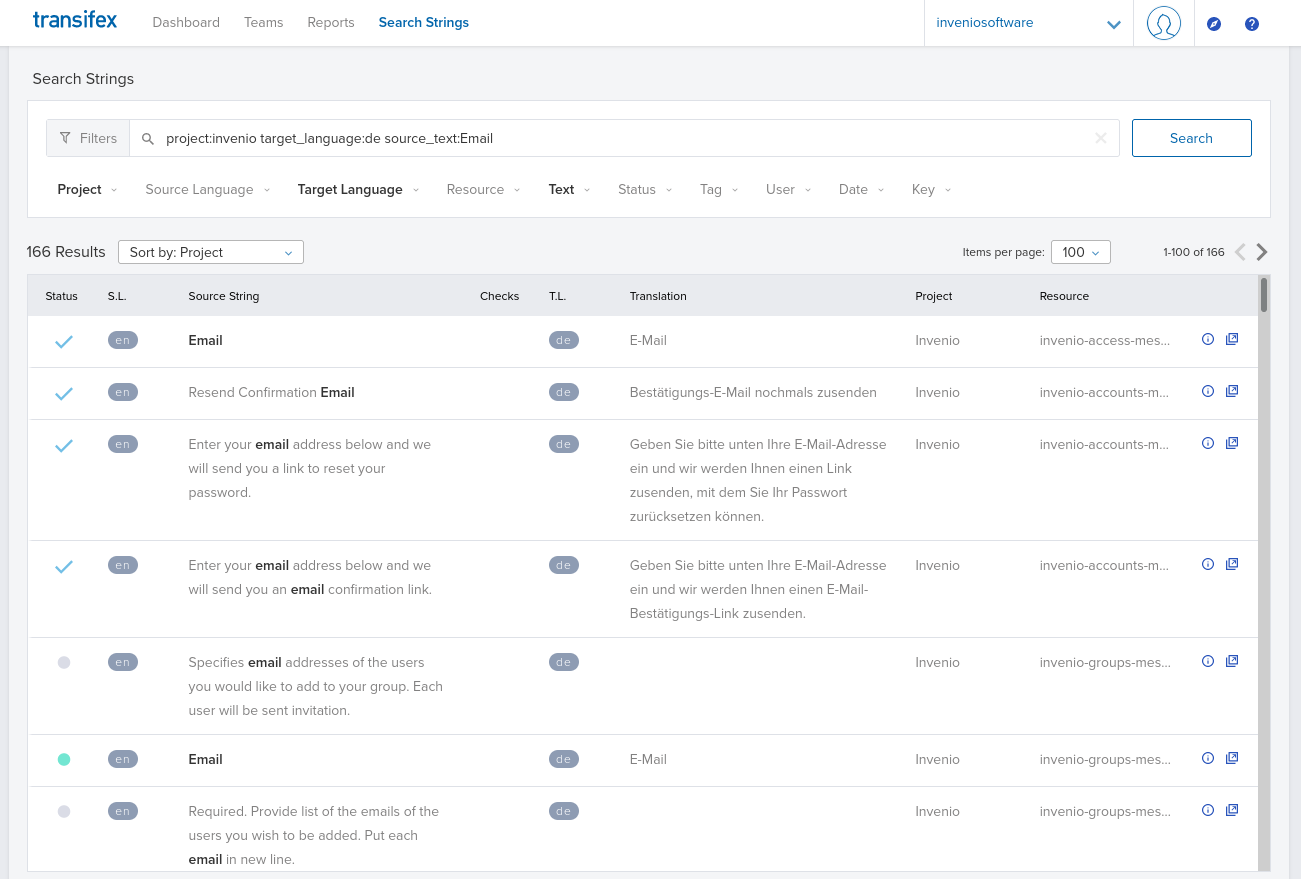
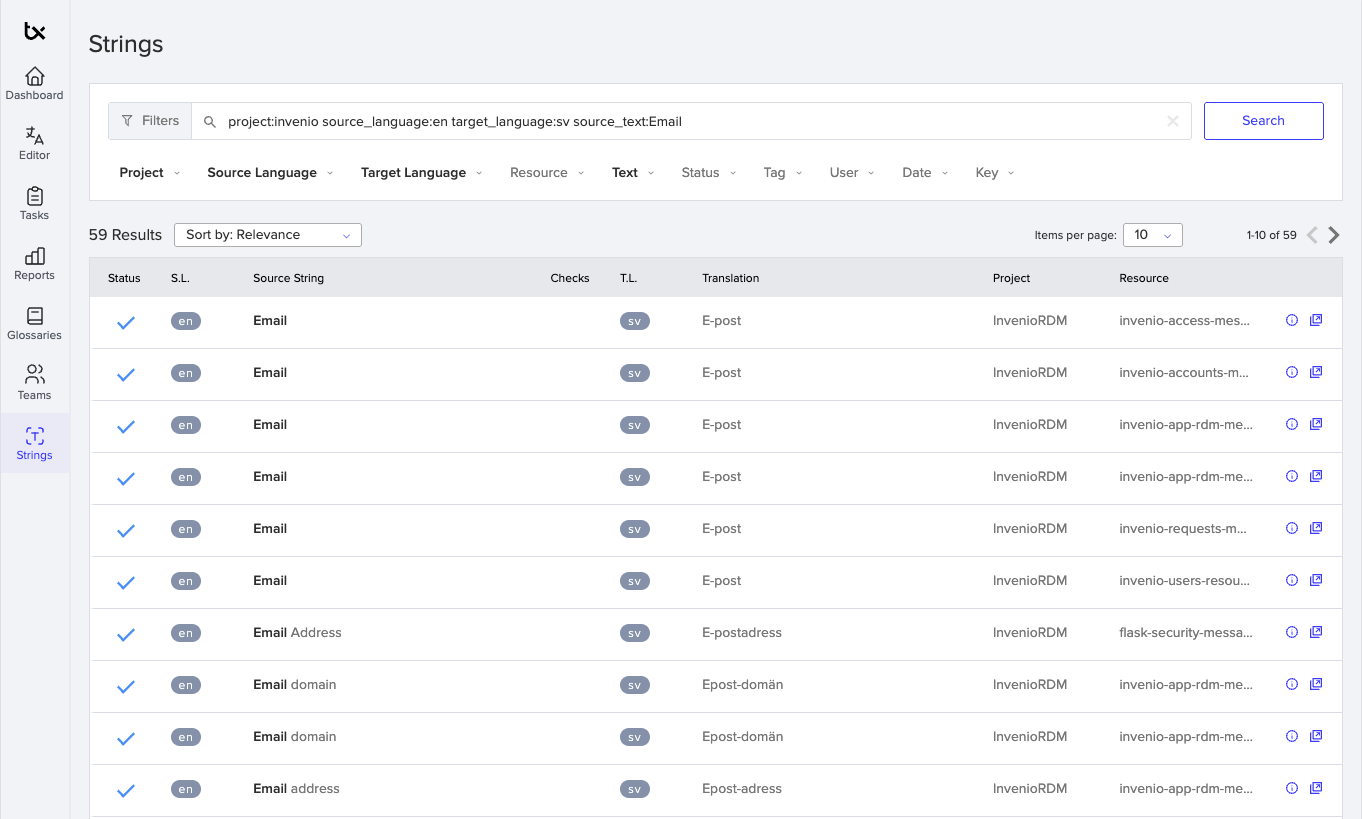
fix: update Transifex links in translator guide
* Update the Transifex links in the translator guide.
* Update the screenshots in the translator guide.

diff --git a/docs/community/translations/translators-guide.md b/docs/community/translations/translators-guide.md
@@ -9,9 +9,9 @@ If you wish to contribute by translating your desired language, please follow th
 
 ## Step 1 - Get a Transifex account
 
-Sign up for a free Open Source Transifex account at <https://www.transifex.com/signup/open-source/> (any other Transifex account will do as well).
+Sign up for a free Open Source Transifex account at <https://explore.transifex.com/inveniosoftware/invenio/> (any other Transifex account will do as well).
 
-For more details, check out the [Transifex Getting Started Guide](https://docs.transifex.com/getting-started-1/translators).
+For more details, check out the [Transifex Getting Started Guide](https://help.transifex.com/en/articles/6248698-getting-started-as-a-translator).
 
 ## Step 2 - Join the inveniosoftware team
 
@@ -19,35 +19,34 @@ For more details, check out the [Transifex Getting Started Guide](https://docs.t
 
     Post your Transifex username and target language(s) in [Discord `#rdm-translations`](https://discord.gg/Ya7qSG43Br). A member of the team will confirm they can vouch for you.
 
-2. Ask to join the inveniosoftware team: <https://www.transifex.com/inveniosoftware/invenio/dashboard/>.
+2. Ask to join the inveniosoftware team: <https://explore.transifex.com/inveniosoftware/invenio/>.
 
     Your request will be accepted once the Discord step above is complete.
 
-For more details, check out the [“Joining a translation team” section](https://docs.transifex.com/getting-started-1/translators#joining-a-translation-team) of the Transifex guide.
+For more details, check out the [“Joining a translation team” section](https://help.transifex.com/en/articles/6248698-getting-started-as-a-translator#h_48ba92e523) of the Transifex guide.
 
 ## Step 3 - Find your language
 
-Check for the existing [languages](https://www.transifex.com/inveniosoftware/invenio/languages/).
+Check for the existing [languages](https://app.transifex.com/inveniosoftware/invenio/languages/).
 
 - **If your desired language is not on the list**, click **Request language** and search for the language you need.
   ![transifex request language](img/transifex-request-language.png)
   - Ping the team again on Discord so they can approve the request.
-- **If your desired language already exists**, choose the language and click **Join team**.
-  ![transifex join team](img/transifex-join-team.png)
+- **If your desired language already exists**, choose the language and click [Join team](https://help.transifex.com/en/articles/6248698-getting-started-as-a-translator#h_48ba92e523)
 
 ## Step 4 - Learn about your translation team
 
 - Check with the InvenioRDM translation team via [Discord `#rdm-translations`](https://discord.gg/Ya7qSG43Br)
     - to get sorted within your language team.
-    - to find out whether you need the [reviewer](https://docs.transifex.com/teams/understanding-user-roles#reviewers) status.
+    - to find out whether you need the [reviewer](https://help.transifex.com/en/articles/6223416-understanding-user-roles#h_f9a67da2da) status.
 
 ## Step 5 - Get familiar with Transifex
 
 - Get started by:
-    - [Using Transifex](https://docs.transifex.com/translation/translating-with-the-web-editor).
-    - [Helpful tools in Transifex](https://docs.transifex.com/translation/tools-in-the-editor).
-    - [html-context in Transifex](https://docs.transifex.com/translation/html-files).
-    - [Pluralized strings in Transifex](https://docs.transifex.com/localization-tips-workflows/plurals-and-genders#how-pluralized-strings-are-handled-by-transifex).
+    - [Using Transifex](https://help.transifex.com/en/articles/6318216-translating-with-the-web-editor).
+    - [Helpful tools in Transifex](https://help.transifex.com/en/articles/6318944-other-tools-in-the-editor).
+    - [html-context in Transifex](https://help.transifex.com/en/articles/6223256-html).
+    - [Pluralized strings in Transifex](https://help.transifex.com/en/articles/6231958-working-with-plurals-and-genders).
 
 ## Step 6 - Check out workflows, experiences and advices
 
@@ -55,7 +54,7 @@ There are some workflows to be aware of and we collected some advice and experie
 
 - Every change you make should be reviewed by another member of your language team. You might need to press the `Unreview` button after changing a reviewed item.
 - For each item you translate/review you can add comments including mentioning other members using `@name`.
-- Several words/sentences appear in different places and packages. To create consistency, try to use the same translations. You might find the [transifex-inveniosoftware-Search Strings](https://www.transifex.com/inveniosoftware/search/) and its filters helpful.
+- Several words/sentences appear in different places and packages. To create consistency, try to use the same translations. You might find the [transifex-inveniosoftware-Search Strings](https://app.transifex.com/inveniosoftware/search/) and its filters helpful.
   ![transifex search strings](img/transifex-search-strings.png)
 - Gender-neutral language: if the language you are translating uses different words for male, female, etc.
     - try to use a neutral way.
